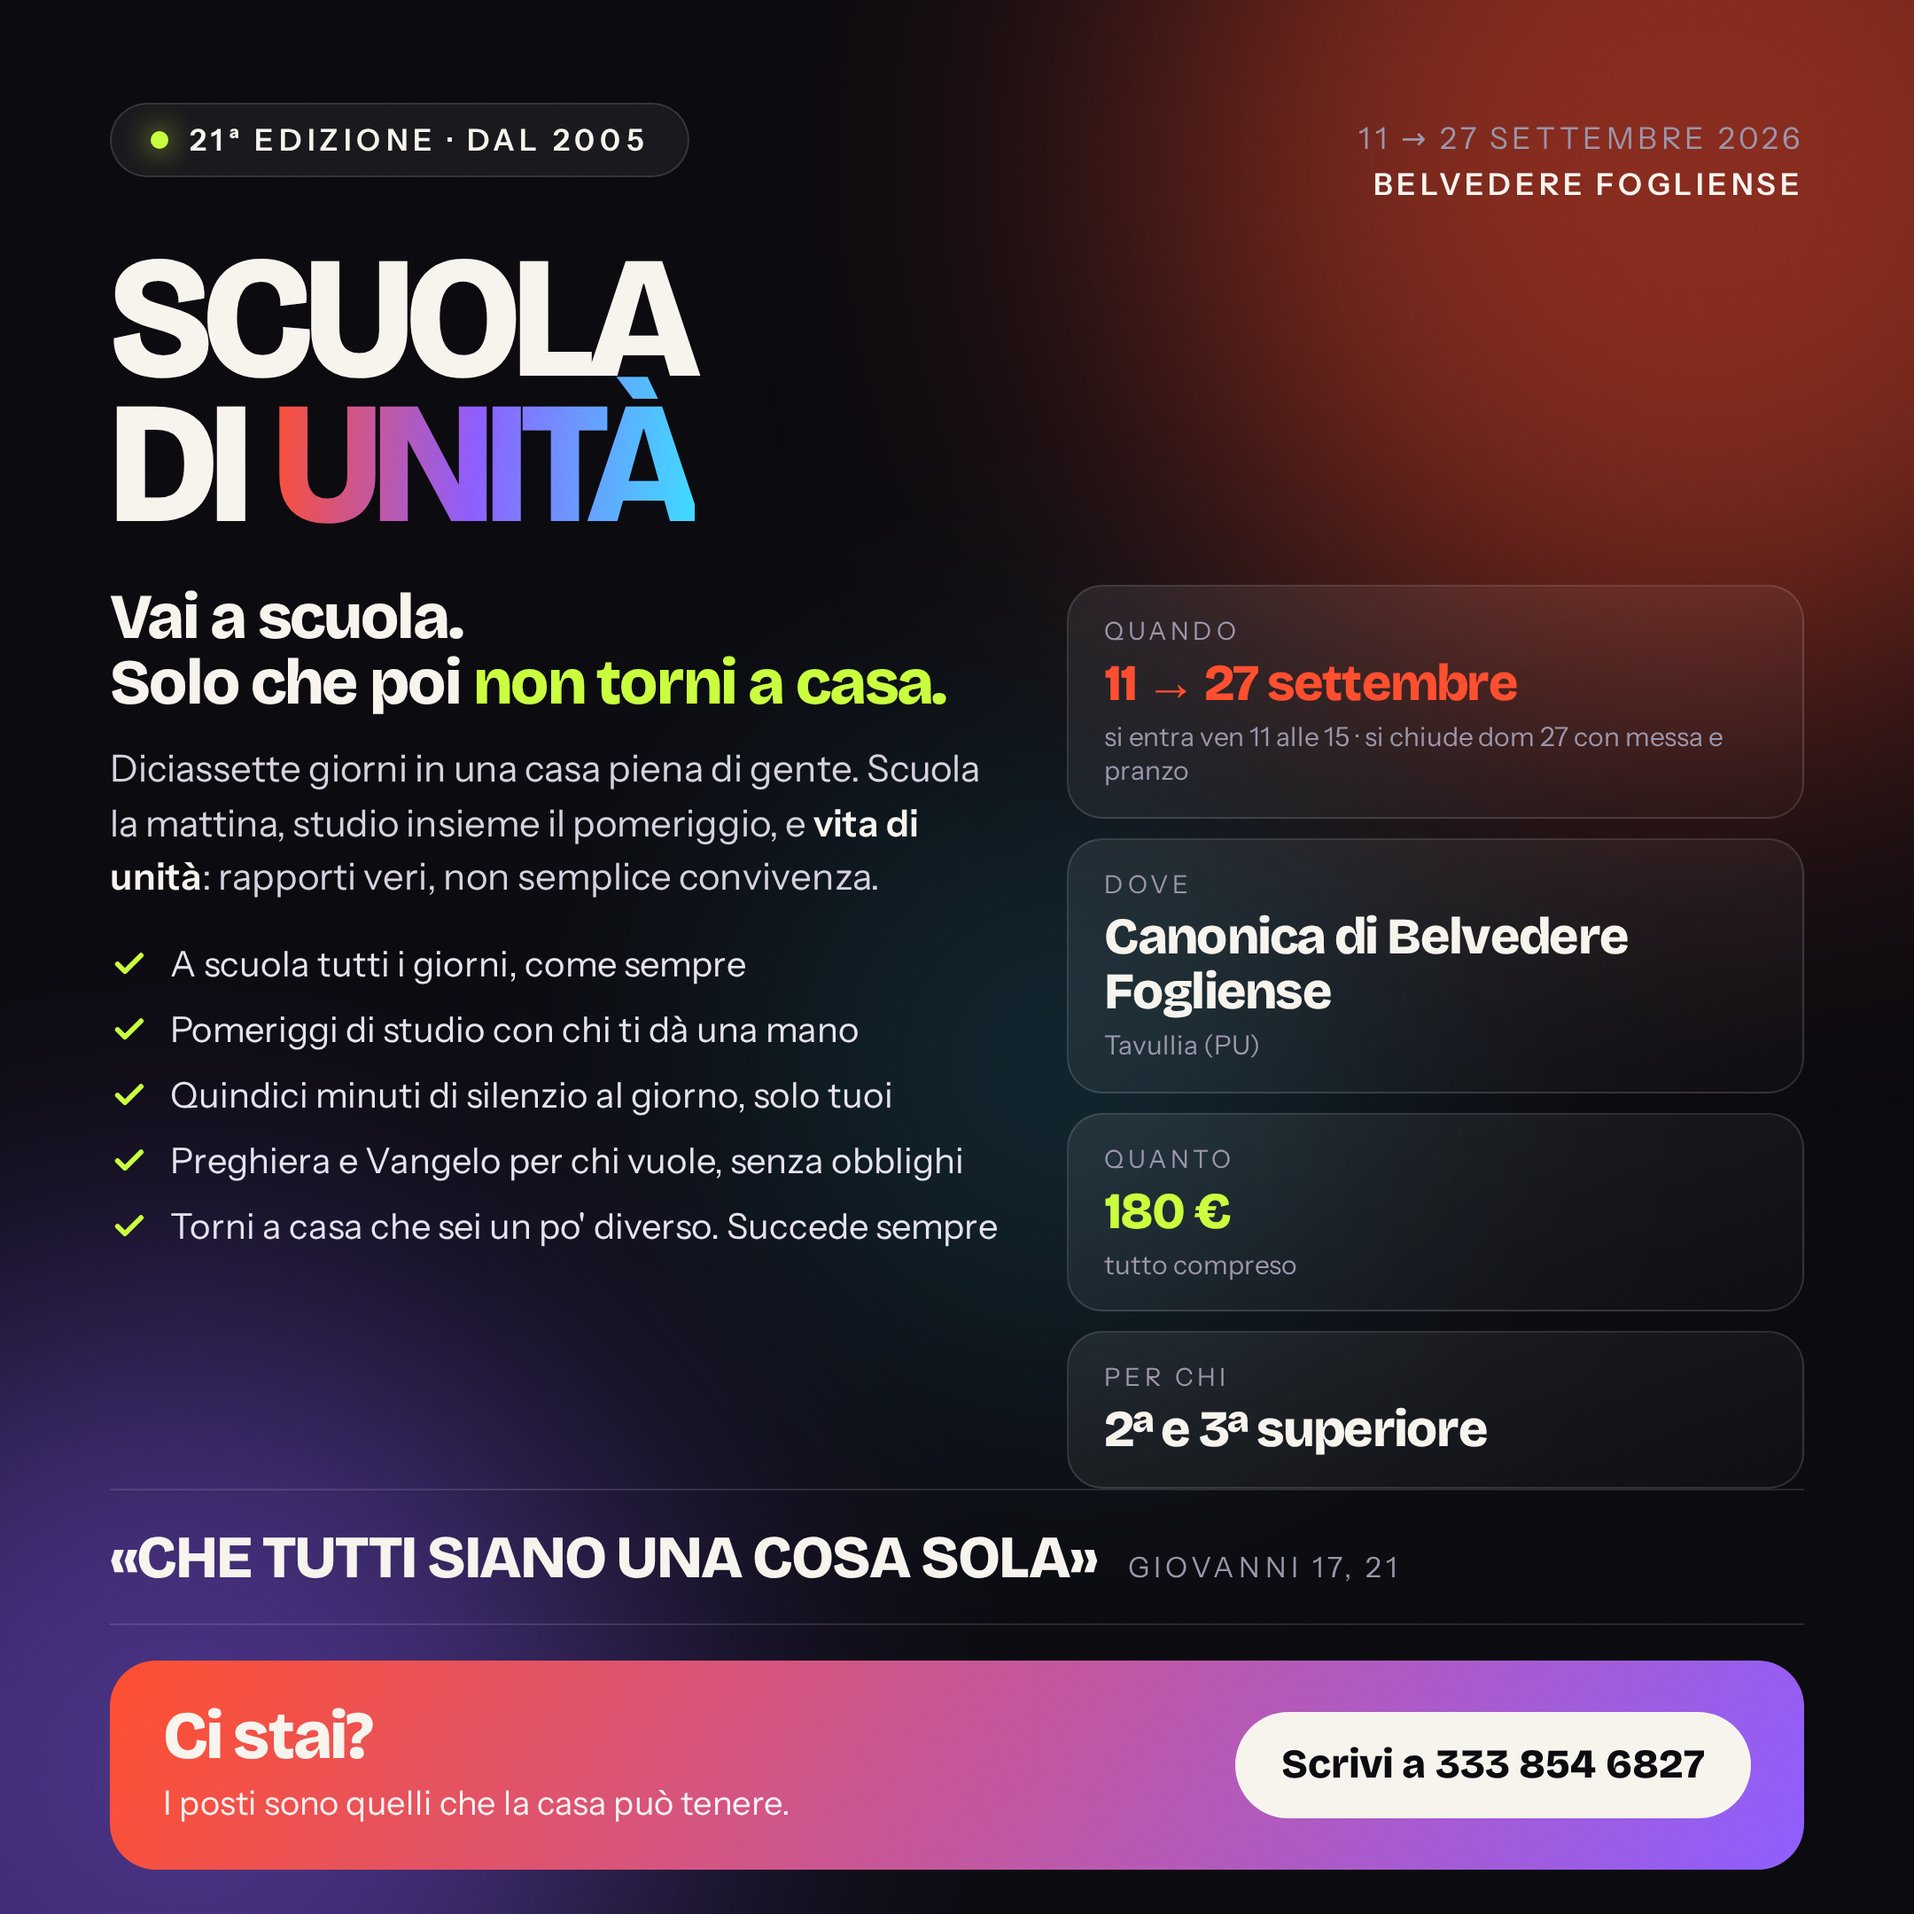
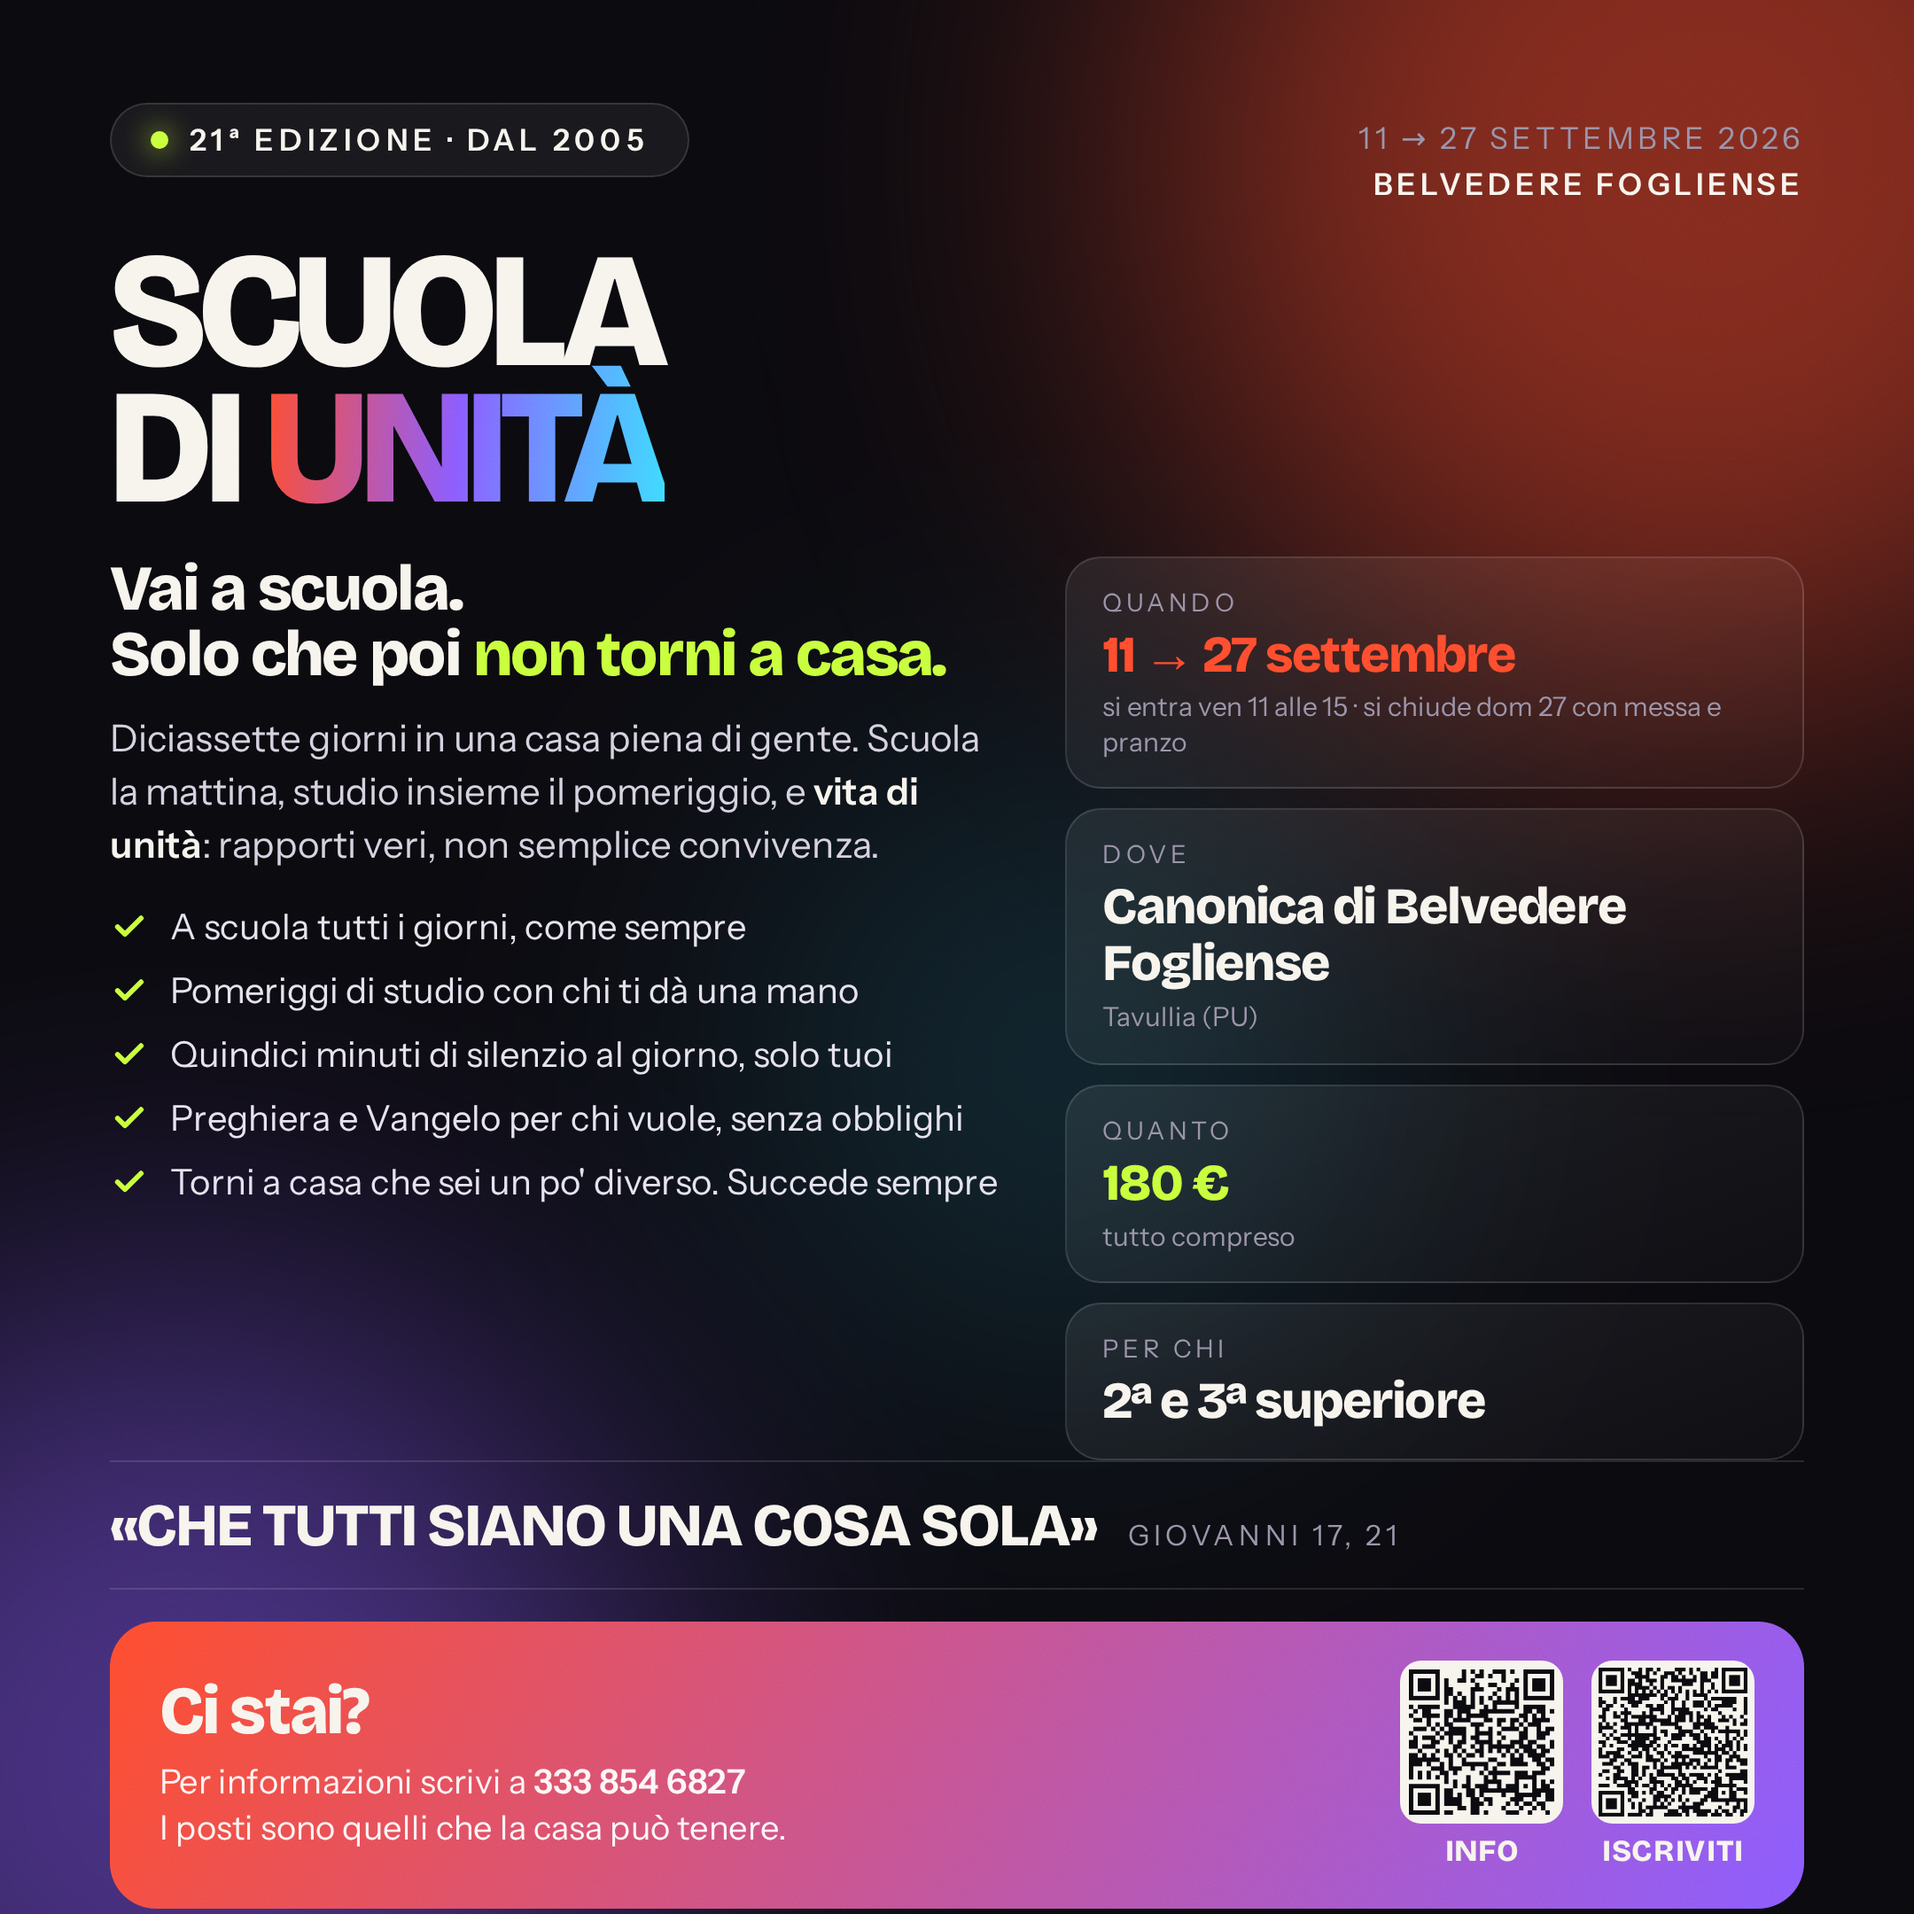
Add files via upload

Changed region(s): [[0.062, 0.5894, 0.9616, 1.0], [0.062, 0.1241, 0.5273, 0.6514], [0.5583, 0.3102, 0.8995, 0.5583]]

diff --git a/index.html b/index.html
@@ -576,8 +576,8 @@
     <div class="cta reveal">
       <h2>Ci stai?</h2>
       <p>I posti sono quelli che la casa può tenere. Iscriviti presto: quando è piena, è piena.</p>
-      <a href="#" class="btn" id="formlink">Compila il modulo →</a>
-      <p style="margin-top:22px;font-size:.9rem;opacity:.8"><span class="todo">[Inserire qui il link al modulo di iscrizione]</span></p>
+      <a href="https://docs.google.com/forms/d/e/1FAIpQLSek76XVJ0pqa0RUHFaSlF50WmK31Bb1ytk5tuJo9fGsSoO2vQ/viewform" class="btn" id="formlink" target="_blank" rel="noopener">Compila il modulo →</a>
+      <p style="margin-top:22px;font-size:.9rem;opacity:.85">Compilarlo non è ancora l'iscrizione definitiva: è il modo di dirci che ci sei. Ti ricontattiamo noi.</p>
     </div>
   </div>
 </section>
